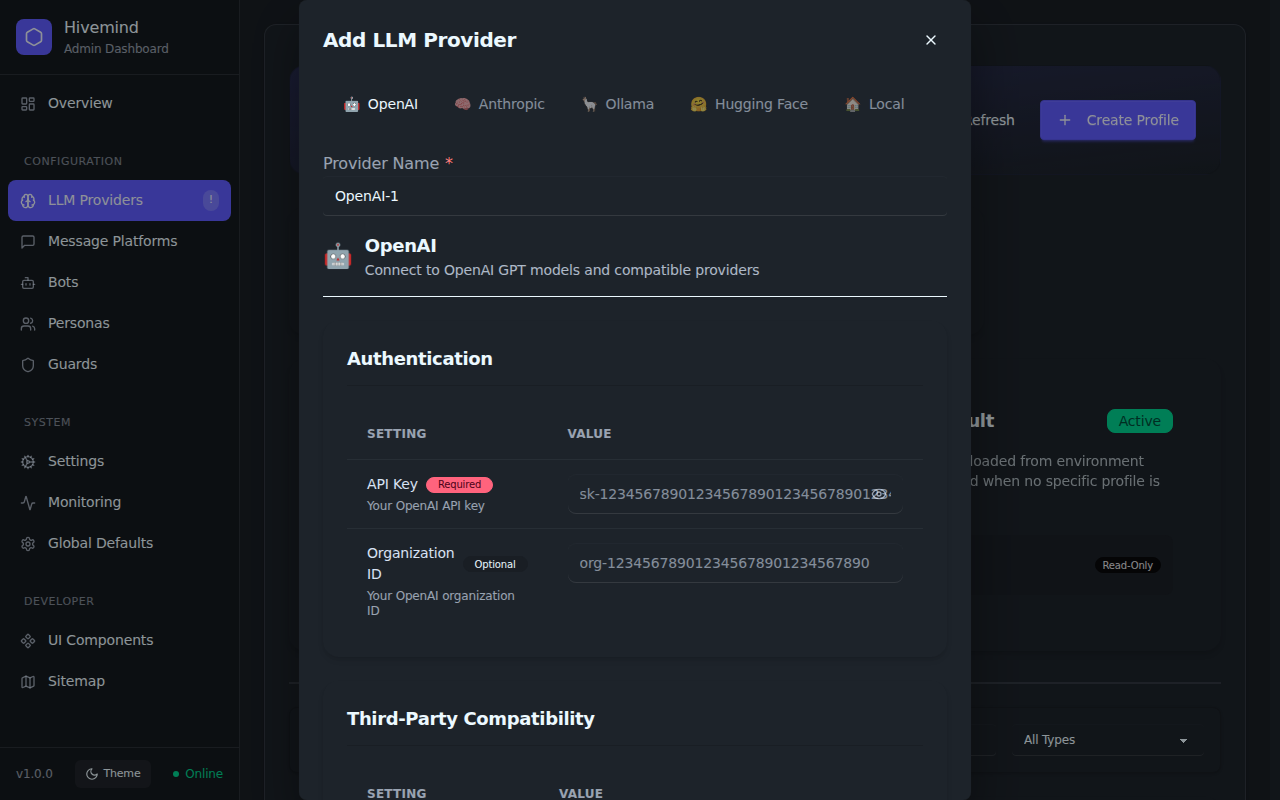
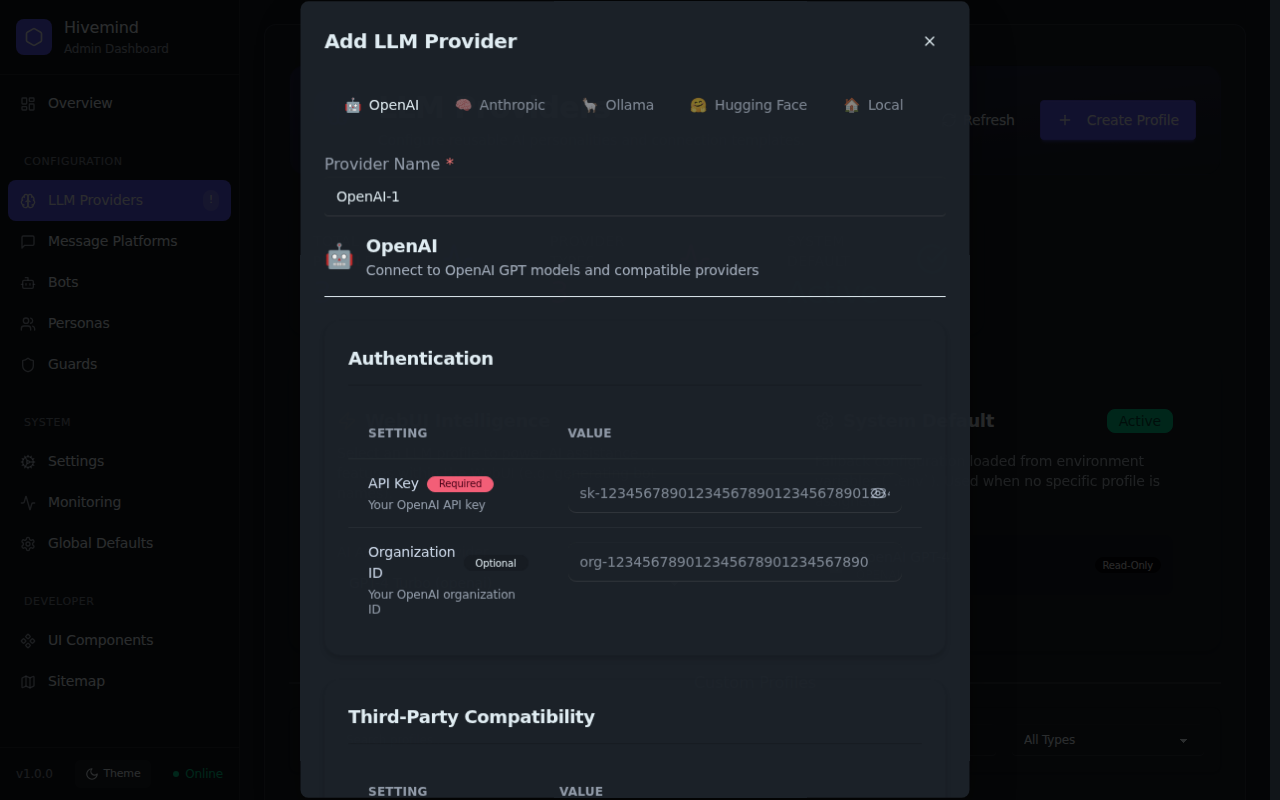
Refiner (LLM Provider Routing Implementation): Fix transparent modal b (#1115)
* fix(ui): ensure modal background is completely opaque

The provider configuration modal was missing the proper \`modal\` and
\`modal-open\` classes in its root \`dialog\` element. Instead it was relying on
these classes to be present on a \`div\` element. This caused the background of
the page to be visible through the modal, reducing contrast and readability.

This change ensures the \`dialog\` element receives these classes, fixing the
background opacity issue.

* fix(ui): ensure modal background is completely opaque

The provider configuration modal was missing the proper \`modal\` and
\`modal-open\` classes in its root \`dialog\` element. Instead it was relying on
these classes to be present on a \`div\` element. This caused the background of
the page to be visible through the modal, reducing contrast and readability.

This change ensures the \`dialog\` element receives these classes, fixing the
background opacity issue.

---------

diff --git a/src/client/src/components/ProviderConfiguration/ProviderConfigModal.tsx b/src/client/src/components/ProviderConfiguration/ProviderConfigModal.tsx
@@ -368,8 +368,8 @@ const ProviderConfigModal: React.FC<ProviderConfigModalProps> = ({
   const allFields = config?.fields || [];
 
   return (
-    <div className="modal modal-open">
-      <div className="modal-box max-w-2xl">
+    <dialog className="modal modal-open">
+      <div className="modal-box max-w-2xl bg-base-100">
         {/* Header */}
         <div className="flex justify-between items-center mb-6">
           <h3 className="text-xl font-bold">
@@ -482,7 +482,10 @@ const ProviderConfigModal: React.FC<ProviderConfigModalProps> = ({
           </div>
         </form>
       </div>
-    </div>
+      <form method="dialog" className="modal-backdrop" onClick={onClose}>
+        <button>close</button>
+      </form>
+    </dialog>
   );
 };
 
